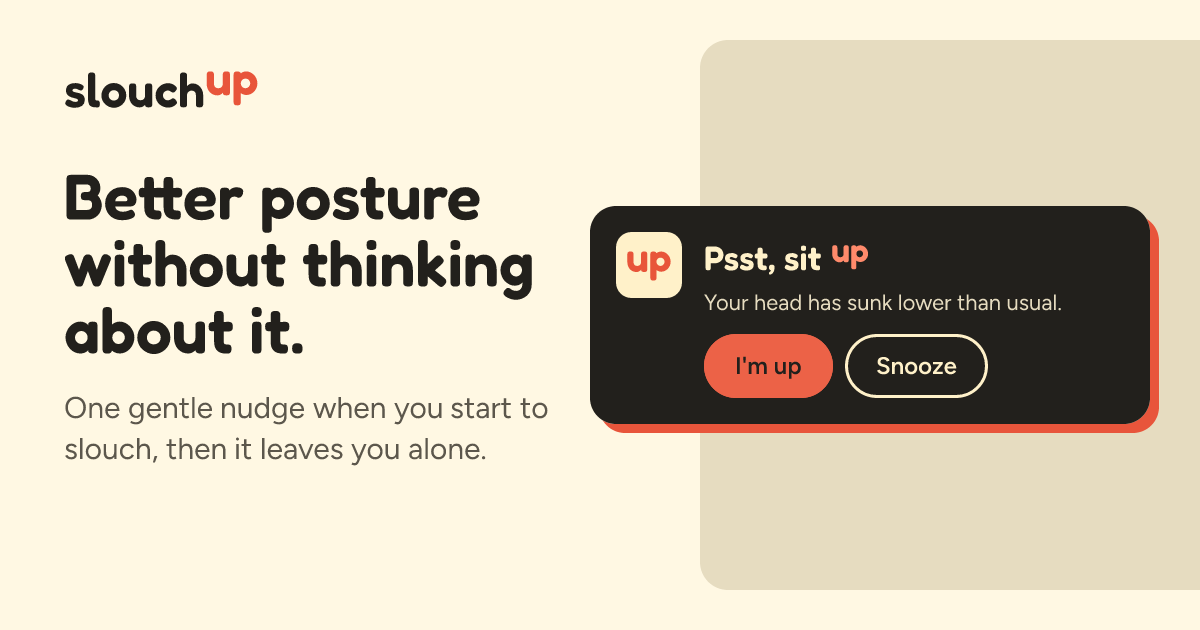
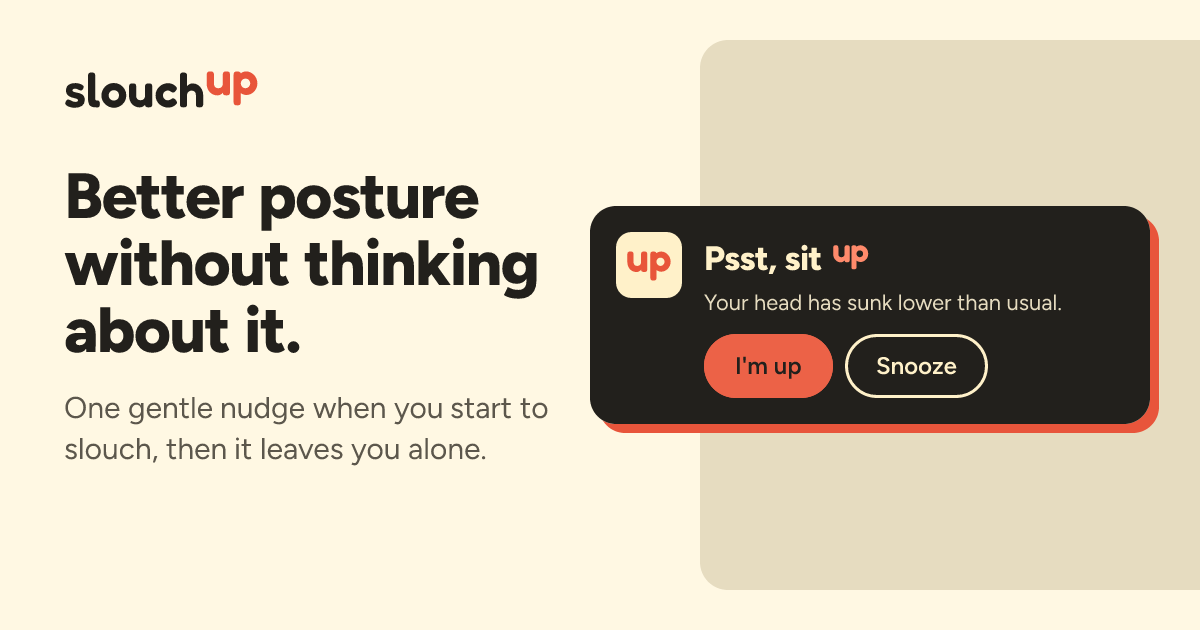
Homepage headers set in Figtree ExtraBold
Testers found the rounded Fredoka headers looked "Comic Sansy" outside the wordmark.
- Headers, the tray strip and the link card use Figtree ExtraBold, set a little tighter
- The wordmark and every raised "up" stay in Fredoka

Claude-Session: https://claude.ai/code/session_018qmWg22Aba3GmdpsBF9CRo

Changed region(s): [[0.0617, 0.2714, 0.4625, 0.4825], [0.0308, 0.4825, 0.2467, 0.573], [0.5858, 0.3921, 0.7092, 0.4222]]

diff --git a/www/src/brand/card.ts b/www/src/brand/card.ts
@@ -22,15 +22,16 @@ const node = (type: string, style: Style, children?: Node["props"]["children"]):
   props: { style, children },
 });
 
-const display = (size: number): Style => ({ fontFamily: "Fredoka", fontWeight: 600, fontSize: size, lineHeight: 1.05 });
+const display = (size: number): Style => ({ fontFamily: "Figtree", fontWeight: 800, fontSize: size, lineHeight: 1.05, letterSpacing: -0.025 * size });
+const wordmarkFace = (size: number): Style => ({ fontFamily: "Fredoka", fontWeight: 600, fontSize: size, lineHeight: 1.05 });
 
-/** "up" raised and coloured as the wordmark has it. */
+/** "up" raised and coloured as the wordmark has it, in the wordmark's face. */
 function up(colour: string, size: number): Node {
-  return node("span", { position: "relative", top: -0.25 * size, color: colour }, "up");
+  return node("span", { position: "relative", top: -0.25 * size, color: colour, ...wordmarkFace(size) }, "up");
 }
 
 function wordmark(): Node {
-  return node("div", { display: "flex", alignItems: "baseline", color: INK, ...display(48) }, ["slouch", up(TOMATO, 48)]);
+  return node("div", { display: "flex", alignItems: "baseline", color: INK, ...wordmarkFace(48) }, ["slouch", up(TOMATO, 48)]);
 }
 
 function tile(size: number): Node {

diff --git a/www/src/styles/global.css b/www/src/styles/global.css
@@ -14,11 +14,19 @@ body {
   padding: 0 24px;
 }
 
-/* The rising "up": once per surface, with room above it so it isn't clipped. */
-.up { position: relative; top: calc(var(--rise-up) * -1); color: var(--up); }
+/* The rising "up": once per surface, with room above it so it isn't clipped. It keeps the
+   wordmark's face inside headers. */
+.up {
+  position: relative;
+  top: calc(var(--rise-up) * -1);
+  color: var(--up);
+  font-family: var(--font-wordmark);
+  font-weight: 600;
+  letter-spacing: 0;
+}
 
-.display { margin: 0; padding-top: var(--rise-up); font: 600 clamp(3rem, 7vw, 5.75rem)/0.98 var(--font-display); }
-.h2 { margin: 0; font: 600 clamp(2.25rem, 4.5vw, 3.5rem)/1 var(--font-display); }
+.display { margin: 0; padding-top: var(--rise-up); font: var(--weight-display) clamp(3rem, 7vw, 5.75rem)/0.98 var(--font-display); letter-spacing: -0.03em; }
+.h2 { margin: 0; font: var(--weight-display) clamp(2.25rem, 4.5vw, 3.5rem)/1 var(--font-display); letter-spacing: -0.025em; }
 .lede { margin: 0; max-width: 34rem; font-size: 1.25rem; line-height: 1.5; }
 .eyebrow { font: 600 13px/1.3 var(--font-body); letter-spacing: 0.12em; text-transform: uppercase; }
 

diff --git a/www/src/pages/og.png.ts b/www/src/pages/og.png.ts
@@ -8,14 +8,14 @@ import { card, HEIGHT, WIDTH } from "../brand/card";
 const require = createRequire(import.meta.url);
 
 /** Satori reads WOFF but not the WOFF2 the page itself loads. */
-async function font(name: string, weight: 400 | 600) {
+async function font(name: string, weight: 400 | 600 | 800) {
   const family = name.toLowerCase();
   const file = require.resolve(`@fontsource/${family}/files/${family}-latin-${weight}-normal.woff`);
   return { name, weight, data: await readFile(file) };
 }
 
 export const GET: APIRoute = async () => {
-  const fonts = await Promise.all([font("Fredoka", 600), font("Figtree", 400), font("Figtree", 600)]);
+  const fonts = await Promise.all([font("Fredoka", 600), font("Figtree", 400), font("Figtree", 600), font("Figtree", 800)]);
   const svg = await satori(card(), { width: WIDTH, height: HEIGHT, fonts });
   const png = new Resvg(svg).render().asPng();
   return new Response(new Uint8Array(png), { headers: { "Content-Type": "image/png" } });

diff --git a/www/src/styles/tokens.css b/www/src/styles/tokens.css
@@ -51,6 +51,8 @@
   --radius-pill: 999px;
   --rise-up: 0.3em;
   --rise-up-small: 0.25em;
-  --font-display: "Fredoka", "Trebuchet MS", sans-serif;
+  --font-wordmark: "Fredoka", "Trebuchet MS", sans-serif;
+  --font-display: "Figtree", "Segoe UI", system-ui, sans-serif;
+  --weight-display: 800;
   --font-body: "Figtree", "Segoe UI", system-ui, sans-serif;
 }
